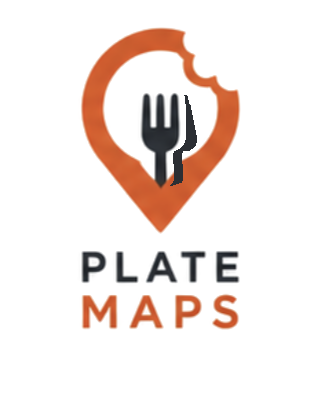
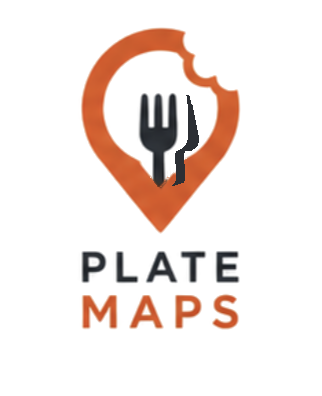
Space the fork and knife apart in the pin
They sat about 7px apart at the artwork's 165px width, which closes to
roughly a pixel everywhere this actually renders — the 36px hero disc, the
40px empty-state disc, the header mark. Each moves 2px outward from the
other, so the gap goes to ~11px.

Nothing is redrawn: each utensil's own pixels were lifted with their
antialiased fringe and re-composited at the new x, and the strip each one
vacated was refilled with the background that sat beside it on that row —
transparent inside the pin, orange where the tips cross the band.

Applied to all three copies of the pin, which are the same artwork at the
same pixel scale: logo-mark.png, logo.png, and src/app/icon.png (which was
byte-identical to logo.png). src/app/favicon.ico is still the
create-next-app default and is untouched.

Changed region(s): [[0.4348, 0.2121, 0.6211, 0.4848]]

diff --git a/src/components/BrandMark.tsx b/src/components/BrandMark.tsx
@@ -12,7 +12,15 @@
  *    dark header that halo showed as a pale fuzz around every edge. Those
  *    pixels are un-matted in `logo-mark.png` (see scripts note in the commit).
  *
- * The artwork itself is unchanged — nothing redrawn, nothing upscaled.
+ * Nothing has ever been redrawn or upscaled here. The one edit made to the
+ * artwork since: the fork and the knife were sitting about 7px apart at the
+ * source's 165px width, which closed to roughly a pixel at the sizes this
+ * renders at, so each was moved 2px outward from the other — their own
+ * pixels lifted and re-composited, fringe and all, not repainted. The same
+ * move was applied to `logo.png` and to `src/app/icon.png` (a byte-copy of
+ * the lockup), since all three carry the same pin at the same pixel scale.
+ * `src/app/favicon.ico` is still the create-next-app default and is not this
+ * artwork at all.
  */
 export function BrandMark({ className = "" }: { className?: string; tone?: "light" | "dark" }) {
   return (
